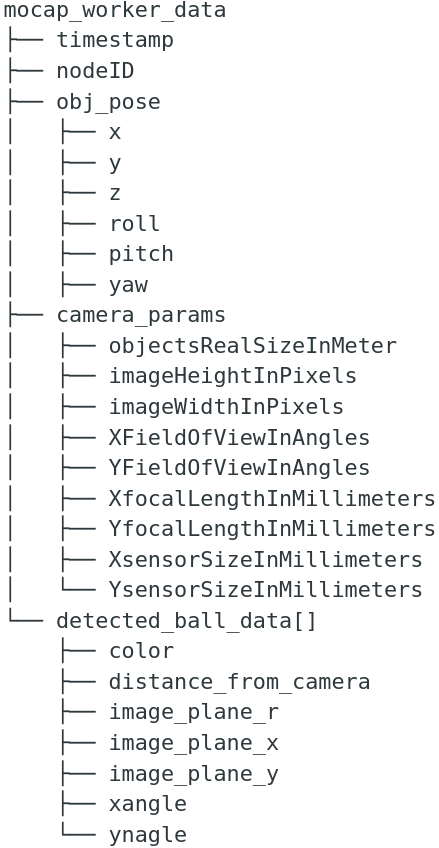
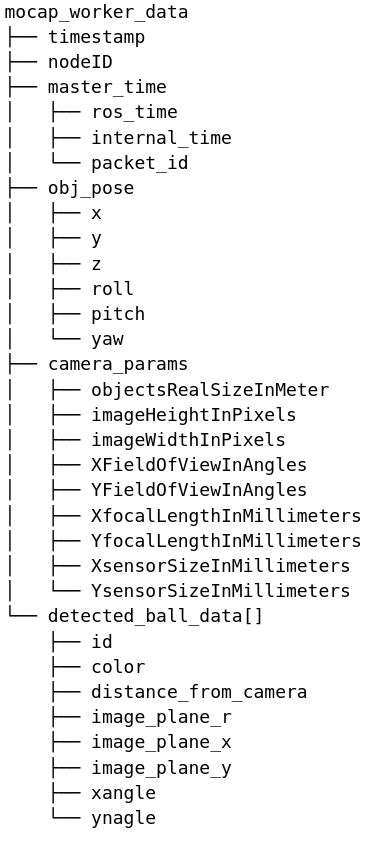
Multiple nodes experiment data added. TODO edit document

Changed region(s): [[0.0, 0.0, 0.9894, 1.0], [0.4947, 0.1533, 0.6111, 0.184]]

diff --git a/doc/Thesis-gr/Chapters/Chapter4.tex b/doc/Thesis-gr/Chapters/Chapter4.tex
@@ -616,13 +616,17 @@
 % mocap_worker_data
 % ├── timestamp
 % ├── nodeID
+% ├── master_time
+% │   ├── ros_time
+% │   ├── internal_time
+% │   └── packet_id
 % ├── obj_pose
 % │   ├── x
 % │   ├── y
 % │   ├── z
 % │   ├── roll
 % │   ├── pitch
-% │   ├── yaw
+% │   └── yaw
 % ├── camera_params
 % │   ├── objectsRealSizeInMeter
 % │   ├── imageHeightInPixels
@@ -634,6 +638,7 @@
 % │   ├── XsensorSizeInMillimeters
 % │   └── YsensorSizeInMillimeters
 % └── detected_ball_data[]
+%     ├── id
 %     ├── color
 %     ├── distance_from_camera
 %     ├── image_plane_r
@@ -652,24 +657,24 @@
 
 
 \begin{align}
-	(x-x_1)^2 + (y-y_1)^2 + (z-z_1)^2 &= r_1^2 - e_1 \label{eq:multilateration-pha1} \\ 
-	(x-x_2)^2 + (y-y_2)^2 + (z-z_2)^2 &= r_2^2 - e_2 \nonumber \\
-	(x-x_3)^2 + (y-y_3)^2 + (z-z_3)^2 &= r_3^2 - e_3 \nonumber \\
-	(x-x_4)^2 + (y-y_4)^2 + (z-z_4)^2 &= r_4^2 - e_4 \nonumber 
+	(x-x_1)^2 + (y-y_1)^2 + (z-z_1)^2 &= r_1^2 \label{eq:multilateration-pha1} \\ 
+	(x-x_2)^2 + (y-y_2)^2 + (z-z_2)^2 &= r_2^2 \nonumber \\
+	(x-x_3)^2 + (y-y_3)^2 + (z-z_3)^2 &= r_3^2 \nonumber \\
+	(x-x_4)^2 + (y-y_4)^2 + (z-z_4)^2 &= r_4^2 \nonumber 
 \end{align}
 
 \begin{align}
-	(x^2+y^2+z^2) - 2x_1x - 2y_1y - 2z_1z &= r_1^2 - x_1^2 - y_1^2 - z_1^2- e_1 \label{eq:multilateration-pha2} \\ 
-	(x^2+y^2+z^2) - 2x_2x - 2y_2y - 2z_2z &= r_2^2 - x_2^2 - y_2^2 - z_2^2- e_2 \nonumber \\
-	(x^2+y^2+z^2) - 2x_3x - 2y_3y - 2z_3z &= r_3^2 - x_3^2 - y_3^2 - z_3^2- e_3 \nonumber \\
-	(x^2+y^2+z^2) - 2x_4x - 2y_4y - 2z_4z &= r_4^2 - x_4^2 - y_4^2 - z_4^2- e_4 \nonumber
+	(x^2+y^2+z^2) - 2x_1x - 2y_1y - 2z_1z &= r_1^2 - x_1^2 - y_1^2 - z_1^2 \label{eq:multilateration-pha2} \\ 
+	(x^2+y^2+z^2) - 2x_2x - 2y_2y - 2z_2z &= r_2^2 - x_2^2 - y_2^2 - z_2^2 \nonumber \\
+	(x^2+y^2+z^2) - 2x_3x - 2y_3y - 2z_3z &= r_3^2 - x_3^2 - y_3^2 - z_3^2 \nonumber \\
+	(x^2+y^2+z^2) - 2x_4x - 2y_4y - 2z_4z &= r_4^2 - x_4^2 - y_4^2 - z_4^2 \nonumber
 \end{align}
 
 
 \begin{align}
 	A = \begin{bmatrix} 1 && -2x_1 && -2y_1 && -2z_1 \\ 1 && -2x_2 && -2y_2 && -2z_2 \\ 1 && -2x_3 && -2y_3 && -2z_3 \\ 1 && -2x_4 && -2y_4 && -2z_4 \\\end{bmatrix} \nonumber \quad
 	X = \begin{bmatrix} x^2+y^2+z^2 \\x \\ y \\ z \end{bmatrix} \nonumber \quad
-	B = \begin{bmatrix} r_1^2 - x_1^2 - y_1^2 - z_1^2- e_1 \\ r_2^2 - x_2^2 - y_2^2 - z_2^2- e_2 \\ r_3^2 - x_3^2 - y_3^2 - z_3^2- e_3 \\ r_4^2 - x_4^2 - y_4^2 - z_4^2- e_4 \end{bmatrix} \nonumber
+	B = \begin{bmatrix} r_1^2 - x_1^2 - y_1^2 - z_1^2 \\ r_2^2 - x_2^2 - y_2^2 - z_2^2 \\ r_3^2 - x_3^2 - y_3^2 - z_3^2 \\ r_4^2 - x_4^2 - y_4^2 - z_4^2 \end{bmatrix} \nonumber
 \end{align}
 
 \begin{align}

diff --git a/doc/Thesis-gr/Chapters/Chapter6.tex b/doc/Thesis-gr/Chapters/Chapter6.tex
@@ -163,7 +163,7 @@
 <1>
 
 \section{Δεδομένα πολλαπλών κόμβων}
-
+\subsection{Διαδικασία λήψης δεδομένων}
 Στην συνέχεια πραγματοποιήθηκαν μετρήσεις από πολλαπλά σημεία (κόκκινα τετράγωνα στο διάγραμμα) για το ίδιο αντικείμενο όπως παρουσιάζεται στην \Fig{multiple-nodes-positions}.
 Με αυτόν τον τρόπο, για την ίδια θέση της μπάλας (με μαύρο χρώμα στο διάγραμμα) θα μπορούσε να προσομοιωθούν - σε ένα πρώιμο τουλάχιστον στάδιο - τα δεδομένα που δημιουργούνται από πολλαπλούς κόμβους σε ένα σμήνος από drone. 
 
@@ -205,7 +205,6 @@
 }
 \end{table}
 
-
 \begin{figure}[H]
   \centering
   \includegraphics[width=0.9\linewidth]{../Images/Experiments-Results/nodes-estimations.png}
@@ -221,4 +220,35 @@
 {multiple-nodes-perception}%
 <1>
 
-\TODO{TODO!}
+\subsection{Εκτίμηση θέσης και απεικόνιση}
+
+\begin{figure} [H]
+	\centering
+	% -----------------
+    \begin{minipage}{.5\textwidth}
+      \centering
+      \includegraphics[width=0.9\linewidth]{../Images/Experiments-Results/nodes-pos-with-est-up.png}\\
+      {(a) Top View}
+    \end{minipage}%
+    % -----------------
+    \begin{minipage}{.5\textwidth}
+      \centering
+      \includegraphics[width=.9\linewidth]{../Images/Experiments-Results/nodes-pos-with-est-side.png}\\
+      {(b) Side View}
+	  \end{minipage}
+	% -----------------
+  \begin{minipage}{\textwidth}
+    \centering
+    \includegraphics[width=.8\linewidth]{../Images/Experiments-Results/nodes-pos-with-est-angle.png}\\
+    {(C) Angled View}
+  \end{minipage}
+% -----------------
+    \hfill \break
+    \decoRule
+    \caption[Εκτίμηση θέσης του αντικειμένου.]{Εκτίμηση θέσης του αντικειμένου. Με \textcolor{black}{\LARGE$\circ$} είναι οι θέσεις στις οποίες τοποθετήθηκε το αντικείμενο ενώ με \textcolor{green}{\LARGE$\circ$} είναι οι θέσεις που έγινε εκτίμηση ότι βρίσκεται} %\CaptionBasedwithURL{Possible Embedded Linux Systems} 
+    \label{fig:multi-exp-pos-estimations}
+\end{figure}
+
+Με μέσο όρο σφάλματος κατά το πείραμα να είναι τα 0,1159m
+
+
